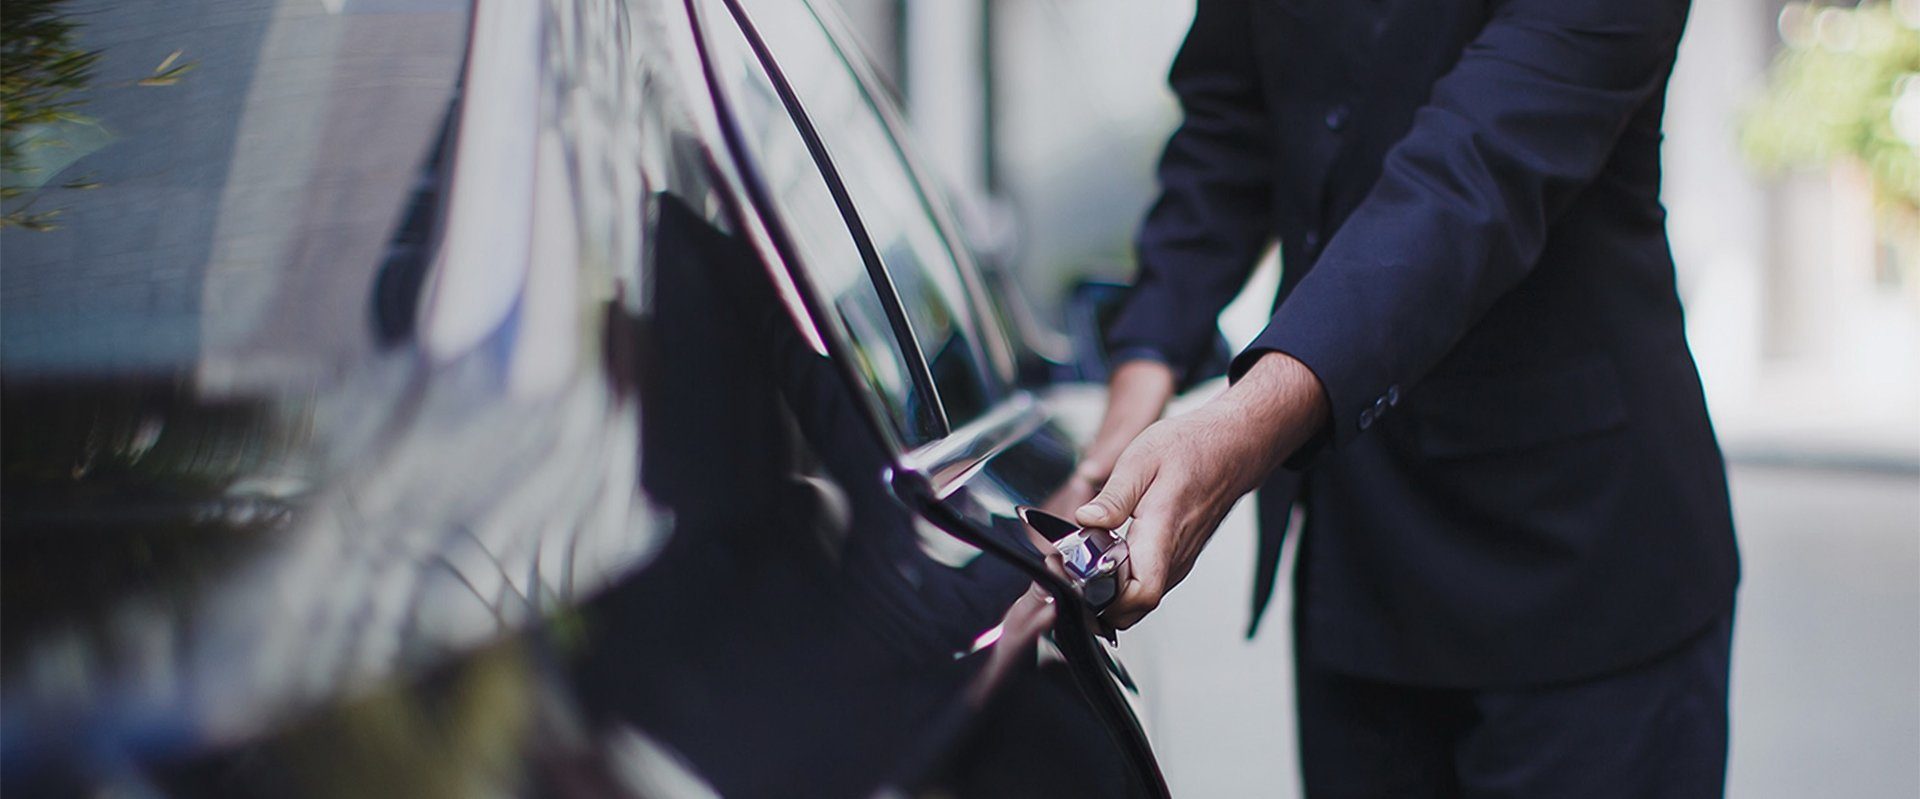
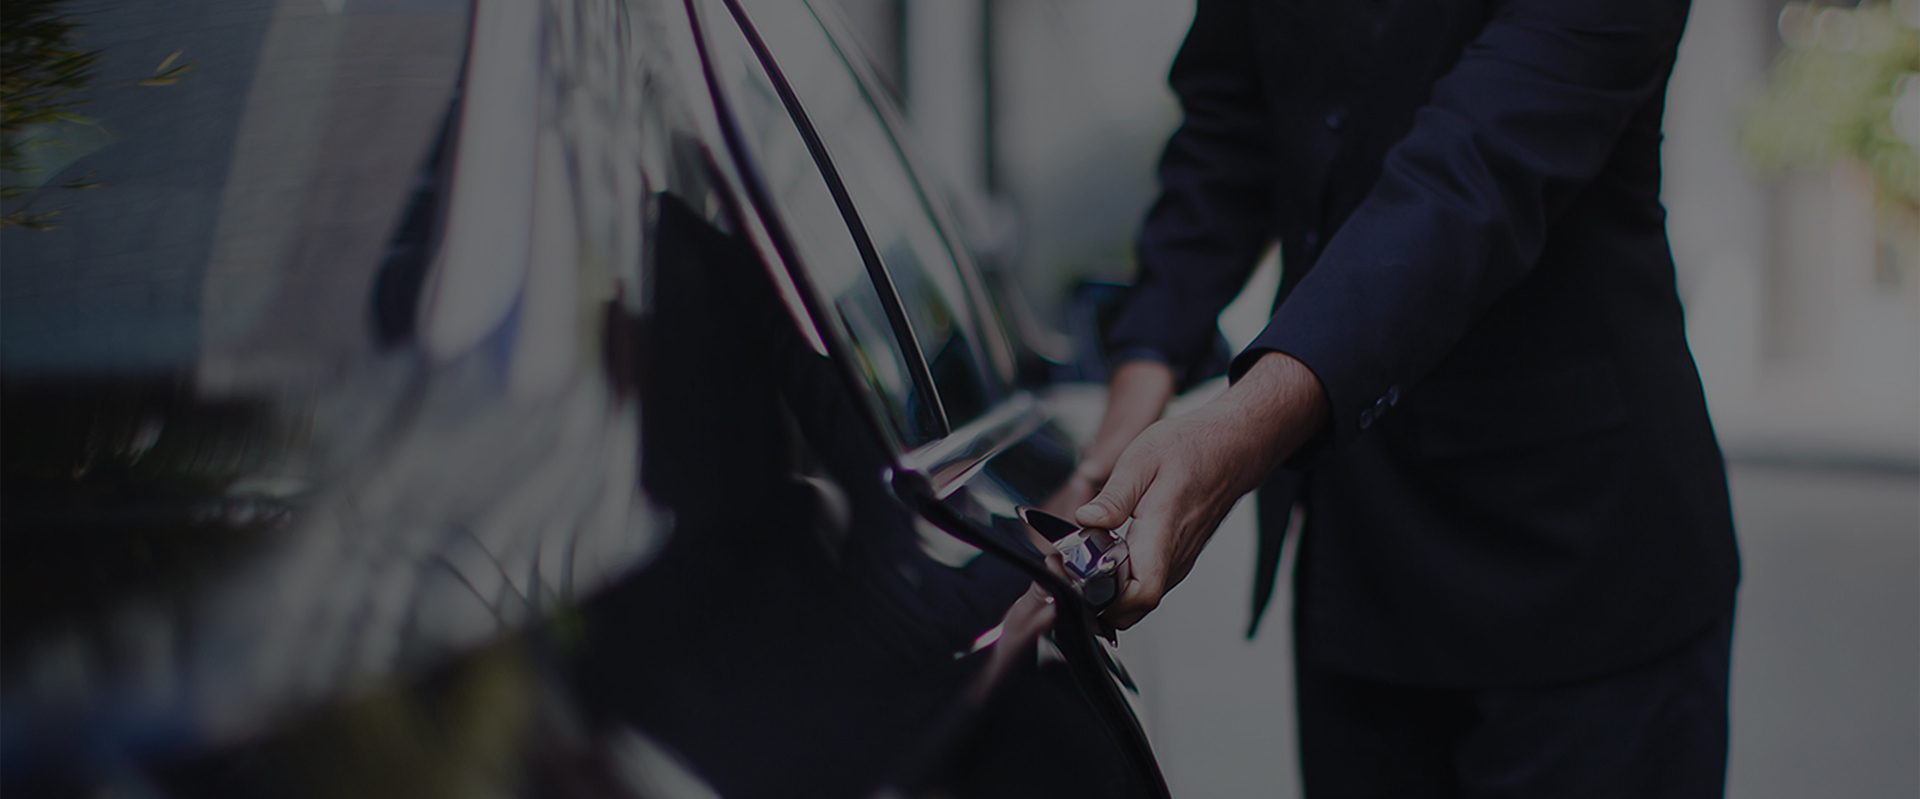
Шапка готова

diff --git a/src/index.html b/src/index.html
@@ -32,9 +32,18 @@
         <div class="subheader">
             <div class="container">
                 <div class="row">
-                    <div class="col-md-4 offset-md-1">123312</div>
-                    <div class="col-md-2 offset-md-2">8 495 797 09 88</div>
-                    <div class="col-md-2">Заказать звонок</div>
+                    <div class="col-md-4 offset-md-1">
+                        <img src="icons/Uber-icon.png" alt="icon_Uber">
+                        <img src="icons/uber777moscow.png" alt="uber777">
+                        <div class="uber_oficial">Официальный партнер Uber в Москве</div>
+                    </div>
+                    <div class="col-md-2 offset-md-2">
+                        <div class="subheader_call">Звоните нам ежедневно</div>
+                        <a href="tel:84957970988" class="sabheader_phone">8 495 797 09 88</a>
+                    </div>
+                    <div class="col-md-2">
+                        <button class="subheader_btn">Заказать звонок</button>
+                        </div>
                 </div>
             </div>
         </div>

diff --git a/src/css/style.css b/src/css/style.css
@@ -27,3 +27,51 @@ nav {
     padding-right: 45px;
 }
 
+.subheader {
+    padding-top: 16px;
+    height: 84px;
+    /* opacity: 0.6; */
+    background-color: rgba(0, 0, 0, .6);
+}
+
+.uber_oficial {
+    margin-top: 6px;
+    opacity: 0.5;
+    font-size: 13px;
+    font-weight: 100;
+    color: #ffffff;
+}
+
+.subheader_call {
+    display: block;
+    font-size: 12px;
+    line-height: 14px;
+    font-weight: 300;
+    color: #ffffff;
+    text-align: right;
+}
+
+.sabheader_phone {
+    display: block;
+    padding-top: 4px;
+    font-size: 22px;
+    font-weight: 400;
+    text-transform: uppercase;
+    color: #ffffff;
+    text-decoration: none;
+    text-align: right;
+}
+
+.subheader_btn {
+    width: 178px;
+    height: 52px;
+    background-image: linear-gradient(0.0deg, #1eacc7 0%, #4ce2ff 100%);
+    border: none;
+    box-shadow: inset 0px -0px 0px 0px rgba(0, 0, 0, 0.11);
+    font-size: 14px;
+    font-weight: 400;
+    text-transform: uppercase;
+    text-shadow: 0px 0px 0px rgba(0, 0, 0, 0.2);
+    color: #ffffff;
+    border-radius: 5px;
+}
